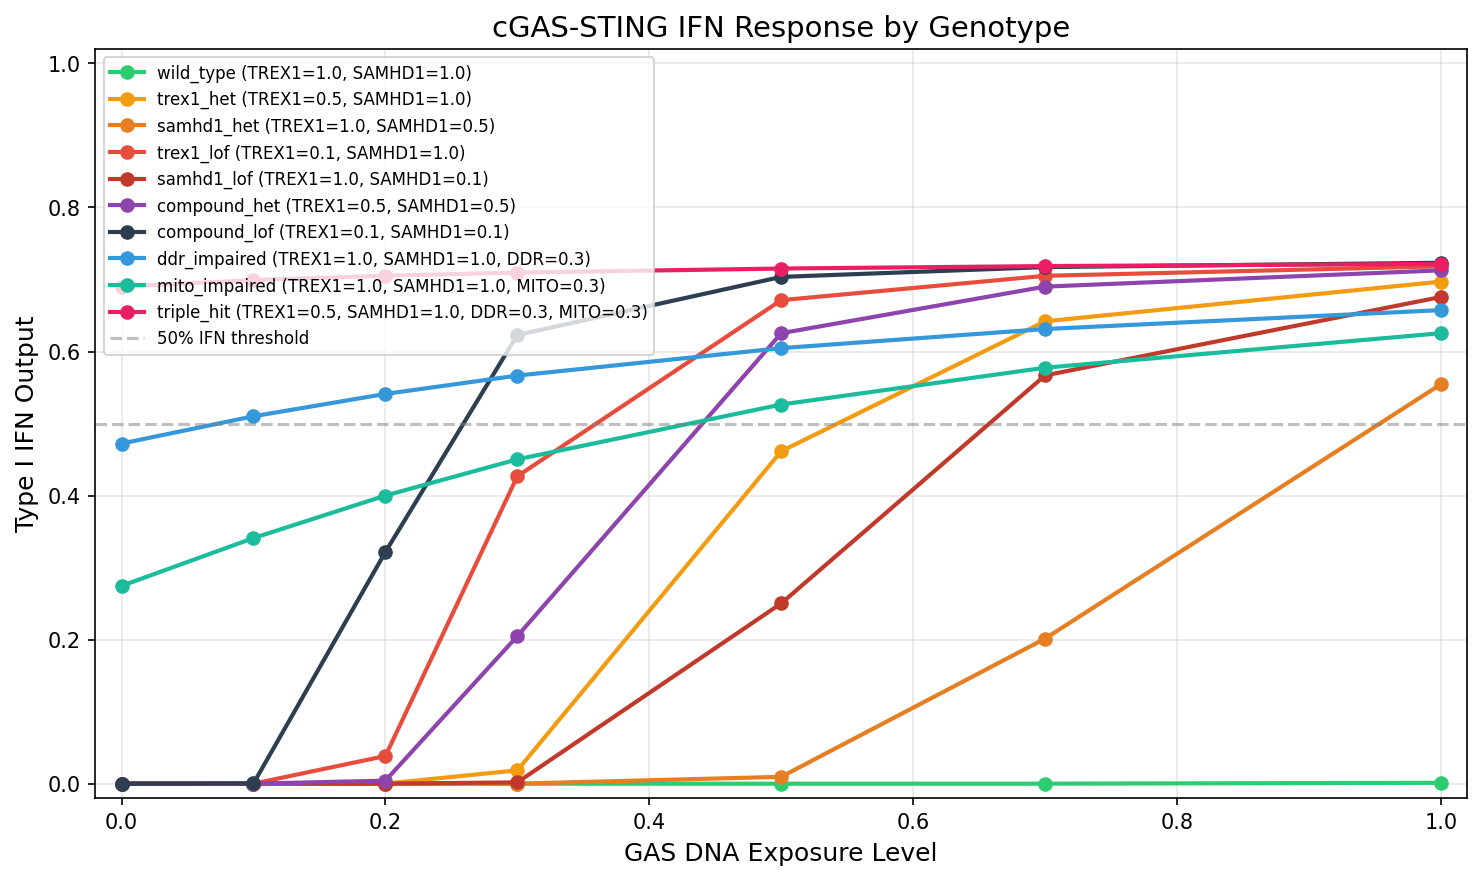
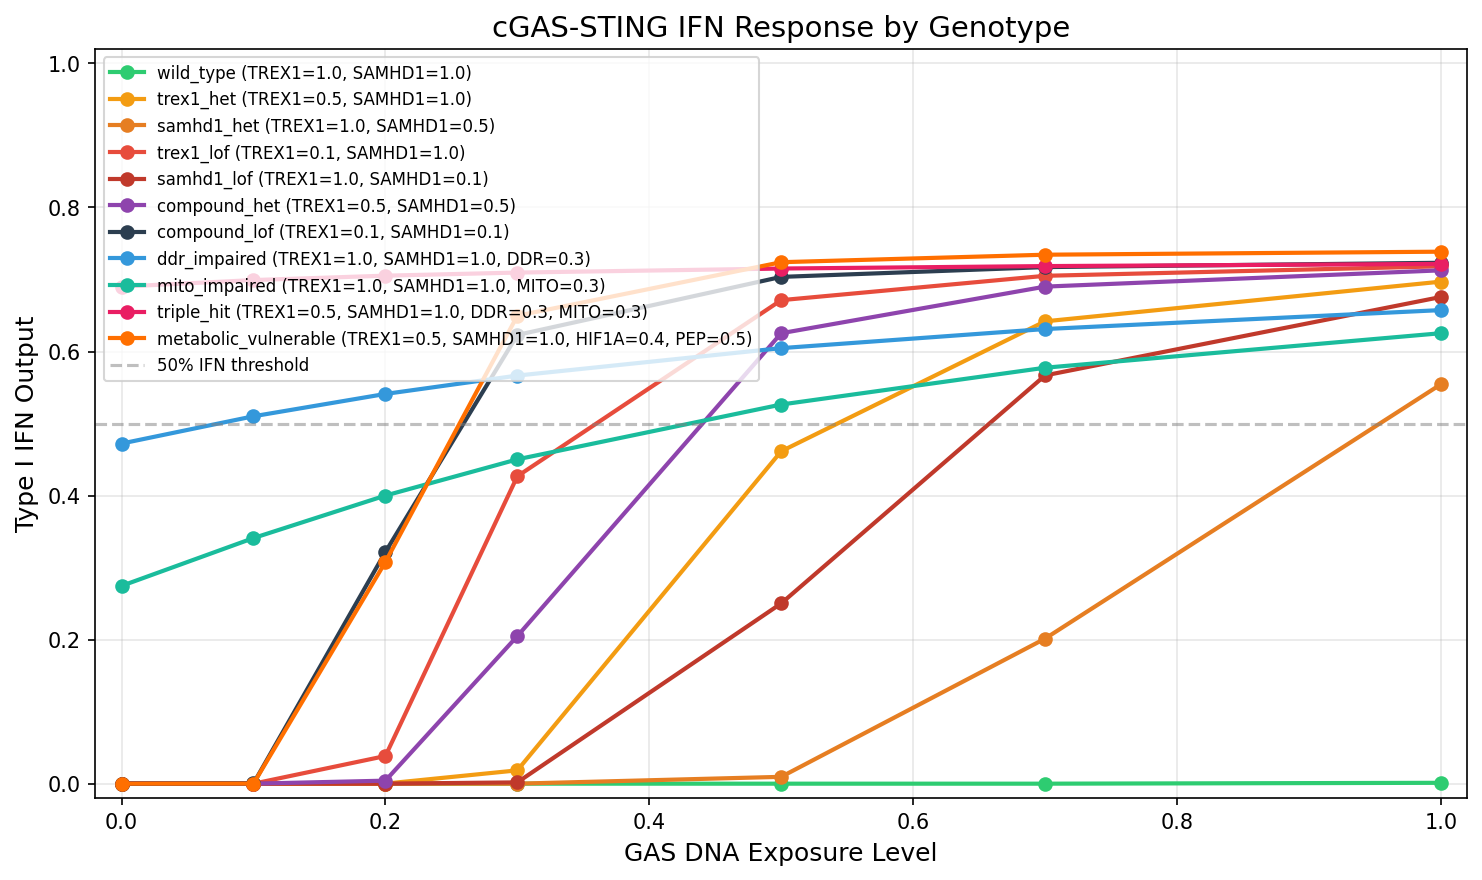
Add metabolic modifier layer (HIF-1a, PEP) to cGAS-STING model (#1609)
HIF-1a deficiency lowers STING activation threshold (glycolysis→OXPHOS shift).
PEP depletion lowers cGAS activation threshold (age-dependent inhibitor loss).
New scenario: metabolic_vulnerable (TREX1=0.5, HIF1A=0.4, PEP=0.5, IFN=0.724).
Added PEP age sweep output showing IFN threshold shift as PEP declines (models
PANDAS developmental onset window ages 3-12). 28 tests passing.

diff --git a/src/bioagentics/models/two_hit_cgas_sting_model.py b/src/bioagentics/models/two_hit_cgas_sting_model.py
@@ -68,6 +68,8 @@ class GenotypeScenario:
     samhd1_activity: float  # 0.0 (null) to 1.0 (wild-type)
     ddr_activity: float = 1.0  # 0.0 (null) to 1.0 (wild-type); CUX1/USP45/PARP14
     mito_activity: float = 1.0  # 0.0 (null) to 1.0 (wild-type); PRKN/POLG
+    hif1a_activity: float = 1.0  # 0.0 (deficient) to 1.0 (normal); modulates STING threshold
+    pep_level: float = 1.0  # 0.0 (depleted) to 1.0 (normal); age-dependent cGAS inhibitor
     description: str = ""
 
 
@@ -150,6 +152,14 @@ DEFAULT_SCENARIOS: list[GenotypeScenario] = [
         mito_activity=0.3,
         description="Triple hit — TREX1 het + DDR + mito impaired (multi-axis vulnerability)",
     ),
+    GenotypeScenario(
+        name="metabolic_vulnerable",
+        trex1_activity=0.5,
+        samhd1_activity=1.0,
+        hif1a_activity=0.4,
+        pep_level=0.5,
+        description="Metabolic vulnerable — TREX1 het + low HIF-1a + low PEP (onset-prone)",
+    ),
 ]
 
 # GAS DNA exposure levels to simulate (normalized 0-1)
@@ -178,6 +188,8 @@ def simulate_pathway(
     samhd1_activity: float,
     ddr_activity: float = 1.0,
     mito_activity: float = 1.0,
+    hif1a_activity: float = 1.0,
+    pep_level: float = 1.0,
     cgas_k: float = 0.3,
     sting_k: float = 0.4,
     tbk1_k: float = 0.4,
@@ -192,14 +204,20 @@ def simulate_pathway(
       DDR failure (CUX1/USP45/PARP14) → unrepaired nuclear DNA leakage
       Mitochondrial impairment (PRKN/POLG) → mtDNA leakage
 
+    Metabolic modifiers:
+      HIF-1a deficiency → metabolic shift → lower STING activation threshold
+      PEP depletion (age-dependent) → reduced cGAS inhibition → lower cGAS threshold
+
     Args:
         gas_dna: GAS pathogen DNA exposure level (0-1).
         trex1_activity: TREX1 enzymatic activity (0=null, 1=WT).
         samhd1_activity: SAMHD1 enzymatic activity (0=null, 1=WT).
         ddr_activity: DDR gene activity (0=null, 1=WT). CUX1/USP45/PARP14.
         mito_activity: Mitochondrial gene activity (0=null, 1=WT). PRKN/POLG.
-        cgas_k: cGAS half-activation threshold.
-        sting_k: STING half-activation threshold.
+        hif1a_activity: HIF-1a activity (0=deficient, 1=normal). Low → STING sensitized.
+        pep_level: Phosphoenolpyruvate level (0=depleted, 1=normal). Low → cGAS sensitized.
+        cgas_k: cGAS half-activation threshold (before PEP modulation).
+        sting_k: STING half-activation threshold (before HIF-1a modulation).
         tbk1_k: TBK1 half-activation threshold.
         irf3_k: IRF3 half-activation threshold.
 
@@ -207,6 +225,14 @@ def simulate_pathway(
         PathwayState with all intermediate and output values.
     """
     state = PathwayState(gas_dna_input=gas_dna)
+
+    # Metabolic modifier: PEP inhibits cGAS; low PEP lowers cGAS threshold
+    # At pep=1.0: cgas_k unchanged; at pep=0.0: cgas_k drops to 30% of normal
+    effective_cgas_k = cgas_k * (0.3 + 0.7 * pep_level)
+
+    # Metabolic modifier: HIF-1a loss shifts glycolysis→OXPHOS, sensitizing STING
+    # At hif1a=1.0: sting_k unchanged; at hif1a=0.0: sting_k drops to 30% of normal
+    effective_sting_k = sting_k * (0.3 + 0.7 * hif1a_activity)
 
     # Cytosolic DNA accumulation depends on input and clearance
     # TREX1 degrades DNA directly; SAMHD1 restricts dNTP pools
@@ -222,13 +248,13 @@ def simulate_pathway(
     state.cytosolic_dna = max(0.0, min(1.0, state.cytosolic_dna))
 
     # cGAS detects cytosolic dsDNA via sigmoidal activation
-    state.cgas_activity = hill(state.cytosolic_dna, k=cgas_k)
+    state.cgas_activity = hill(state.cytosolic_dna, k=effective_cgas_k)
 
     # cGAS produces 2'3'-cGAMP (proportional to cGAS activity)
     state.cgamp_level = state.cgas_activity * 0.95
 
     # STING activation by cGAMP
-    state.sting_activity = hill(state.cgamp_level, k=sting_k)
+    state.sting_activity = hill(state.cgamp_level, k=effective_sting_k)
 
     # TBK1 phosphorylation by active STING
     state.tbk1_activity = hill(state.sting_activity, k=tbk1_k)
@@ -271,9 +297,10 @@ def run_genotype_simulations(
     }
 
     for scenario in scenarios:
-        logger.info("Simulating: %s (TREX1=%.1f, SAMHD1=%.1f, DDR=%.1f, MITO=%.1f)",
+        logger.info("Simulating: %s (TREX1=%.1f, SAMHD1=%.1f, DDR=%.1f, MITO=%.1f, HIF1A=%.1f, PEP=%.1f)",
                      scenario.name, scenario.trex1_activity, scenario.samhd1_activity,
-                     scenario.ddr_activity, scenario.mito_activity)
+                     scenario.ddr_activity, scenario.mito_activity,
+                     scenario.hif1a_activity, scenario.pep_level)
 
         scenario_data = {
             "description": scenario.description,
@@ -281,6 +308,8 @@ def run_genotype_simulations(
             "samhd1_activity": scenario.samhd1_activity,
             "ddr_activity": scenario.ddr_activity,
             "mito_activity": scenario.mito_activity,
+            "hif1a_activity": scenario.hif1a_activity,
+            "pep_level": scenario.pep_level,
             "exposure_results": [],
         }
 
@@ -291,6 +320,8 @@ def run_genotype_simulations(
                 samhd1_activity=scenario.samhd1_activity,
                 ddr_activity=scenario.ddr_activity,
                 mito_activity=scenario.mito_activity,
+                hif1a_activity=scenario.hif1a_activity,
+                pep_level=scenario.pep_level,
             )
             scenario_data["exposure_results"].append({
                 "gas_dna_input": round(dna, 3),
@@ -309,6 +340,8 @@ def run_genotype_simulations(
             samhd1_activity=scenario.samhd1_activity,
             ddr_activity=scenario.ddr_activity,
             mito_activity=scenario.mito_activity,
+            hif1a_activity=scenario.hif1a_activity,
+            pep_level=scenario.pep_level,
         )
         scenario_data["ifn_at_moderate_infection"] = round(moderate_state.ifn_output, 4)
 
@@ -316,6 +349,7 @@ def run_genotype_simulations(
         threshold = _find_ifn_threshold(
             scenario.trex1_activity, scenario.samhd1_activity,
             scenario.ddr_activity, scenario.mito_activity,
+            scenario.hif1a_activity, scenario.pep_level,
         )
         scenario_data["dna_threshold_50pct_ifn"] = round(threshold, 4) if threshold is not None else None
 
@@ -329,6 +363,8 @@ def _find_ifn_threshold(
     samhd1_activity: float,
     ddr_activity: float = 1.0,
     mito_activity: float = 1.0,
+    hif1a_activity: float = 1.0,
+    pep_level: float = 1.0,
     target_ifn: float = 0.5,
     resolution: int = 100,
 ) -> float | None:
@@ -338,6 +374,7 @@ def _find_ifn_threshold(
         state = simulate_pathway(
             dna, trex1_activity, samhd1_activity,
             ddr_activity=ddr_activity, mito_activity=mito_activity,
+            hif1a_activity=hif1a_activity, pep_level=pep_level,
         )
         if state.ifn_output >= target_ifn:
             return dna
@@ -366,6 +403,7 @@ def plot_ifn_response_curves(
         "ddr_impaired": "#3498DB",
         "mito_impaired": "#1ABC9C",
         "triple_hit": "#E91E63",
+        "metabolic_vulnerable": "#FF6F00",
     }
 
     for name, data in scenarios.items():
@@ -376,6 +414,10 @@ def plot_ifn_response_curves(
             parts.append(f"DDR={data['ddr_activity']}")
         if data.get("mito_activity", 1.0) != 1.0:
             parts.append(f"MITO={data['mito_activity']}")
+        if data.get("hif1a_activity", 1.0) != 1.0:
+            parts.append(f"HIF1A={data['hif1a_activity']}")
+        if data.get("pep_level", 1.0) != 1.0:
+            parts.append(f"PEP={data['pep_level']}")
         label = f"{name} ({', '.join(parts)})"
         ax.plot(dna_levels, ifn_values, marker="o", color=color, label=label, linewidth=2)
 
@@ -443,6 +485,91 @@ def plot_pathway_heatmap(
     logger.info("Saved pathway heatmap: %s", dest)
 
 
+def run_pep_age_sweep(
+    base_scenario: GenotypeScenario | None = None,
+    pep_levels: list[float] | None = None,
+    gas_dna: float = 0.5,
+) -> dict:
+    """Sweep PEP levels to model age-dependent onset window.
+
+    PEP (phosphoenolpyruvate) directly inhibits cGAS. Age-related PEP decline
+    explains the PANDAS developmental timing window (typically ages 3-12).
+
+    Returns dict with PEP sweep results showing IFN threshold shift.
+    """
+    if base_scenario is None:
+        base_scenario = GenotypeScenario(
+            name="trex1_het_pep_sweep",
+            trex1_activity=0.5,
+            samhd1_activity=1.0,
+            description="TREX1 het with PEP age sweep",
+        )
+    if pep_levels is None:
+        pep_levels = [1.0, 0.9, 0.8, 0.7, 0.6, 0.5, 0.4, 0.3]
+
+    sweep_results = []
+    for pep in pep_levels:
+        state = simulate_pathway(
+            gas_dna=gas_dna,
+            trex1_activity=base_scenario.trex1_activity,
+            samhd1_activity=base_scenario.samhd1_activity,
+            ddr_activity=base_scenario.ddr_activity,
+            mito_activity=base_scenario.mito_activity,
+            hif1a_activity=base_scenario.hif1a_activity,
+            pep_level=pep,
+        )
+        threshold = _find_ifn_threshold(
+            base_scenario.trex1_activity, base_scenario.samhd1_activity,
+            base_scenario.ddr_activity, base_scenario.mito_activity,
+            base_scenario.hif1a_activity, pep,
+        )
+        sweep_results.append({
+            "pep_level": round(pep, 2),
+            "ifn_output": round(state.ifn_output, 4),
+            "dna_threshold_50pct_ifn": round(threshold, 4) if threshold is not None else None,
+        })
+
+    return {
+        "description": "Age-dependent PEP sweep: PEP decline lowers cGAS threshold, modeling PANDAS onset window",
+        "base_genotype": base_scenario.name,
+        "gas_dna": gas_dna,
+        "sweep": sweep_results,
+    }
+
+
+def plot_pep_age_sweep(sweep_data: dict, dest: Path) -> None:
+    """Plot IFN output and threshold vs PEP level."""
+    pep_levels = [r["pep_level"] for r in sweep_data["sweep"]]
+    ifn_values = [r["ifn_output"] for r in sweep_data["sweep"]]
+    thresholds = [r["dna_threshold_50pct_ifn"] for r in sweep_data["sweep"]]
+
+    fig, ax1 = plt.subplots(figsize=(8, 5))
+
+    ax1.plot(pep_levels, ifn_values, "o-", color="#E74C3C", linewidth=2, label="IFN output (DNA=0.5)")
+    ax1.set_xlabel("PEP Level (1.0=young, 0.3=age-depleted)", fontsize=11)
+    ax1.set_ylabel("IFN Output", fontsize=11, color="#E74C3C")
+    ax1.tick_params(axis="y", labelcolor="#E74C3C")
+    ax1.set_xlim(1.05, 0.25)
+
+    ax2 = ax1.twinx()
+    t_vals = [t if t is not None else 0.0 for t in thresholds]
+    ax2.plot(pep_levels, t_vals, "s--", color="#3498DB", linewidth=2, label="50% IFN threshold")
+    ax2.set_ylabel("DNA Threshold for 50% IFN", fontsize=11, color="#3498DB")
+    ax2.tick_params(axis="y", labelcolor="#3498DB")
+
+    ax1.set_title("Age-Dependent PEP Decline → PANDAS Onset Window", fontsize=13)
+    lines1, labels1 = ax1.get_legend_handles_labels()
+    lines2, labels2 = ax2.get_legend_handles_labels()
+    ax1.legend(lines1 + lines2, labels1 + labels2, loc="upper right")
+    ax1.grid(alpha=0.3)
+    plt.tight_layout()
+
+    dest.parent.mkdir(parents=True, exist_ok=True)
+    fig.savefig(dest, dpi=150, bbox_inches="tight")
+    plt.close(fig)
+    logger.info("Saved PEP age sweep plot: %s", dest)
+
+
 def run_cgas_sting_model(dest_dir: Path | None = None) -> dict:
     """Run the full cGAS-STING pathway activation model.
 
@@ -461,9 +588,17 @@ def run_cgas_sting_model(dest_dir: Path | None = None) -> dict:
         json.dump(results, f, indent=2)
     logger.info("Saved pathway activation scores: %s", scores_path)
 
+    # Run age-dependent PEP sweep
+    pep_sweep = run_pep_age_sweep()
+    pep_path = dest_dir / "pep_age_sweep.json"
+    with open(pep_path, "w") as f:
+        json.dump(pep_sweep, f, indent=2)
+    logger.info("Saved PEP age sweep: %s", pep_path)
+
     # Generate visualizations
     plot_ifn_response_curves(results, dest_dir / "ifn_response_curves.png")
     plot_pathway_heatmap(results, dest_dir / "pathway_heatmap.png")
+    plot_pep_age_sweep(pep_sweep, dest_dir / "pep_age_sweep.png")
 
     # Log key findings
     logger.info("=== Key findings ===")

diff --git a/tests/test_two_hit_cgas_sting_model.py b/tests/test_two_hit_cgas_sting_model.py
@@ -13,6 +13,7 @@ from bioagentics.models.two_hit_cgas_sting_model import (
     simulate_pathway,
     run_genotype_simulations,
     run_cgas_sting_model,
+    run_pep_age_sweep,
 )
 
 
@@ -113,11 +114,31 @@ class TestSimulatePathway:
     def test_output_bounded_with_all_impaired(self):
         """All outputs should stay in [0, 1] even with maximum impairment."""
         state = simulate_pathway(gas_dna=1.0, trex1_activity=0.0, samhd1_activity=0.0,
-                                 ddr_activity=0.0, mito_activity=0.0)
+                                 ddr_activity=0.0, mito_activity=0.0,
+                                 hif1a_activity=0.0, pep_level=0.0)
         for val in [state.cytosolic_dna, state.cgas_activity, state.cgamp_level,
                     state.sting_activity, state.tbk1_activity, state.irf3_activity,
                     state.ifn_output]:
             assert 0.0 <= val <= 1.0
+
+    def test_low_pep_increases_ifn(self):
+        """Low PEP (age-related) should increase IFN output by lowering cGAS threshold."""
+        normal_pep = simulate_pathway(gas_dna=0.5, trex1_activity=0.5, samhd1_activity=1.0, pep_level=1.0)
+        low_pep = simulate_pathway(gas_dna=0.5, trex1_activity=0.5, samhd1_activity=1.0, pep_level=0.3)
+        assert low_pep.ifn_output > normal_pep.ifn_output
+
+    def test_low_hif1a_increases_ifn(self):
+        """Low HIF-1a should increase IFN output by lowering STING threshold."""
+        normal_hif = simulate_pathway(gas_dna=0.5, trex1_activity=0.5, samhd1_activity=1.0, hif1a_activity=1.0)
+        low_hif = simulate_pathway(gas_dna=0.5, trex1_activity=0.5, samhd1_activity=1.0, hif1a_activity=0.3)
+        assert low_hif.ifn_output > normal_hif.ifn_output
+
+    def test_metabolic_modifiers_backward_compatible(self):
+        """Default hif1a=1.0 and pep=1.0 should not change existing results."""
+        old = simulate_pathway(gas_dna=0.5, trex1_activity=0.5, samhd1_activity=0.5)
+        new = simulate_pathway(gas_dna=0.5, trex1_activity=0.5, samhd1_activity=0.5,
+                               hif1a_activity=1.0, pep_level=1.0)
+        assert old.ifn_output == new.ifn_output
 
 
 class TestRunGenotypSimulations:
@@ -125,7 +146,7 @@ class TestRunGenotypSimulations:
         results = run_genotype_simulations()
         assert "scenarios" in results
         assert len(results["scenarios"]) == len(DEFAULT_SCENARIOS)
-        assert len(DEFAULT_SCENARIOS) == 10
+        assert len(DEFAULT_SCENARIOS) == 11
 
     def test_scenario_has_exposure_results(self):
         results = run_genotype_simulations()
@@ -153,12 +174,30 @@ class TestRunGenotypSimulations:
             assert wt_thresh > lof_thresh
 
 
+class TestPepAgeSweep:
+    def test_sweep_returns_expected_structure(self):
+        result = run_pep_age_sweep()
+        assert "sweep" in result
+        assert len(result["sweep"]) == 8
+        for entry in result["sweep"]:
+            assert "pep_level" in entry
+            assert "ifn_output" in entry
+
+    def test_ifn_increases_as_pep_decreases(self):
+        """IFN should increase as PEP declines (aging)."""
+        result = run_pep_age_sweep()
+        sweep = result["sweep"]
+        assert sweep[-1]["ifn_output"] > sweep[0]["ifn_output"]
+
+
 class TestRunModel:
     def test_creates_output_files(self, tmp_path):
         results = run_cgas_sting_model(dest_dir=tmp_path)
         assert (tmp_path / "pathway_activation_scores.json").exists()
         assert (tmp_path / "ifn_response_curves.png").exists()
         assert (tmp_path / "pathway_heatmap.png").exists()
+        assert (tmp_path / "pep_age_sweep.json").exists()
+        assert (tmp_path / "pep_age_sweep.png").exists()
 
     def test_json_output_valid(self, tmp_path):
         run_cgas_sting_model(dest_dir=tmp_path)
